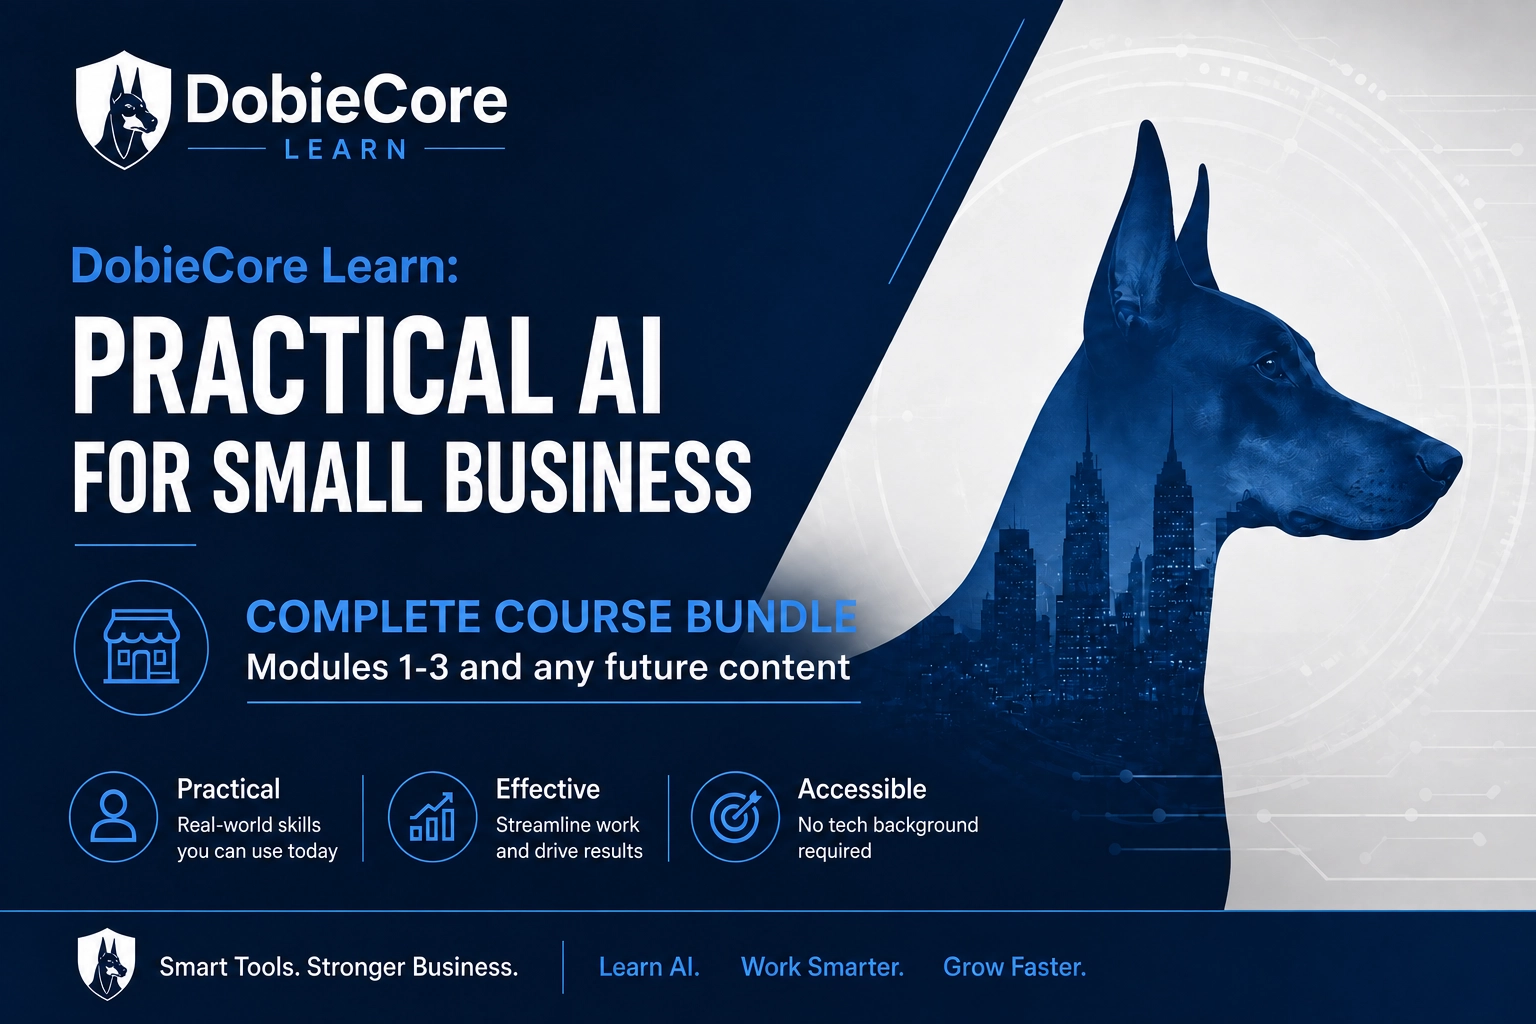
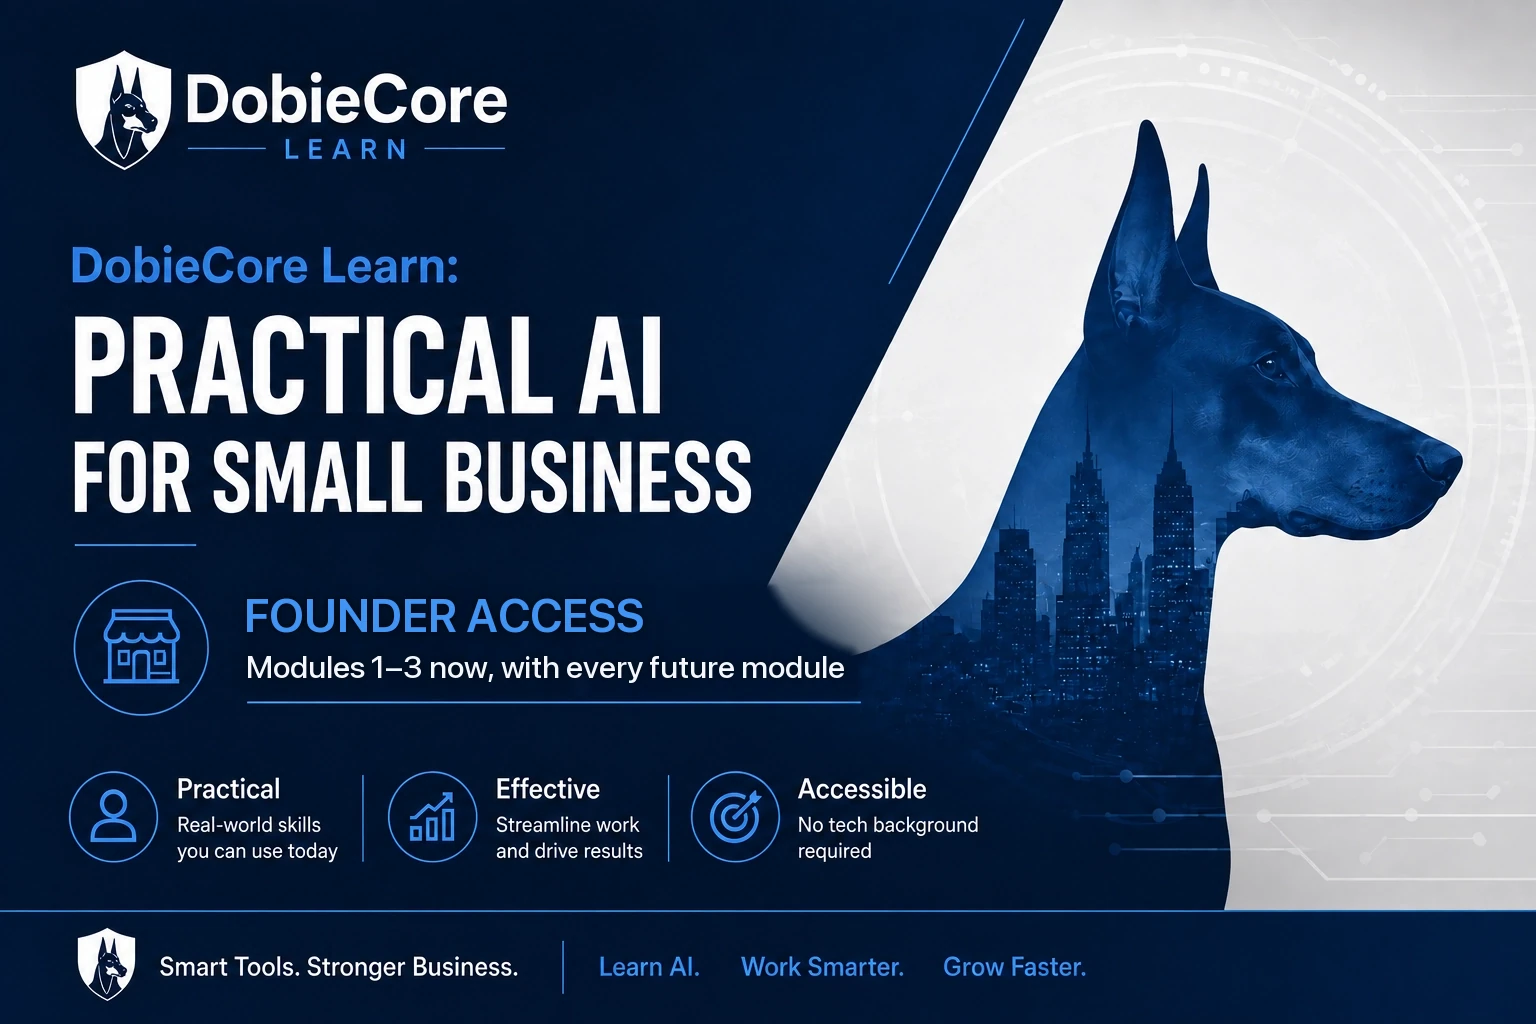
Lead the Learn page with Founder Access and say what exists today
A pre-launch review found the hero offer muddled: the art said "Complete
Course Bundle" while also promising "Modules 1-3 and any future content",
which reads as both finished and unfinished at once.

The hero art now reads "FOUNDER ACCESS / Modules 1-3 now, with every future
module". The old lettering was painted out and the white page-curl behind
"BUNDLE" redrawn, then the new type set in SF Pro to match. The full sentence
lives in the alt text. The re-encode is 135 KB (was 304 KB) and the URL
carries the build stamp, since /assets/* is edge-cached for four hours.

Both enroll buttons now say "Enroll for $99 Founder Access", the hero fine
print says "One payment. Lifetime access. Future modules included at no
extra cost.", and the price card names the offer Founder Access. A
highlighted line in the card states that 36 lessons across Modules 1-3 are
available now and further modules are added as they are completed. It
replaces the "All three modules live today" bullet it would have repeated.

The "better communicator" headline stays as the central positioning.

Changed region(s): [[0.1562, 0.5625, 0.5625, 0.6875]]

diff --git a/learn.html b/learn.html
@@ -18,16 +18,16 @@ keywords: "AI course for small business, practical AI, AI for small business own
 <section class="learn-hero">
   <div class="learn-hero-inner">
     <img class="learn-hero-image"
-         src="/assets/images/learn/dobiecore-learn-hero.webp"
-         alt="DobieCore Learn: Practical AI for Small Business — the complete course bundle. Practical, effective, accessible; no tech background required."
+         src="/assets/images/learn/dobiecore-learn-hero.webp?v={{ site.time | date: '%s' }}"
+         alt="DobieCore Learn: Practical AI for Small Business. Founder Access: Modules 1–3 now, with every future module included. Practical, effective, accessible; no tech background required."
          width="1536" height="1024" loading="eager" decoding="async" fetchpriority="high">
     <h1>You don't need to become a prompt engineer. You need to become a better communicator.</h1>
     <p class="learn-lede">DobieCore Learn is a course for small business owners who want AI to actually help &mdash; without collecting someone else's prompts forever. Three modules, 36 lessons, and a reusable business foundation you hand AI at the start of every conversation.</p>
     <p class="learn-cta-row">
-      <a href="{{ learn_url }}/enroll/" class="button">Enroll &middot; $99 founder price</a>
+      <a href="{{ learn_url }}/enroll/" class="button">Enroll for $99 Founder Access</a>
       <a href="{{ learn_url }}/module-1/1-1-welcome-to-dobiecore-learn-practical-ai-for-small-business/" class="button-secondary">Read the first two lessons free</a>
     </p>
-    <p class="learn-fine">Lifetime access, including every module added after you join.</p>
+    <p class="learn-fine">One payment. Lifetime access. Future modules included at no extra cost.</p>
   </div>
 </section>
 
@@ -87,17 +87,17 @@ keywords: "AI course for small business, practical AI, AI for small business own
 <section class="section section-alt">
   <div class="container" style="max-width: 720px; margin: 0 auto;">
     <div class="learn-price">
-      <p class="learn-price-eyebrow">Founder price</p>
+      <p class="learn-price-eyebrow">Founder Access</p>
       <p class="learn-price-amount">$99</p>
       <p class="learn-price-note">One payment. Lifetime access.</p>
+      <p class="learn-price-status"><strong>Available now:</strong> 36 lessons across Modules 1&ndash;3. Additional modules are in development and will be added as they are completed.</p>
       <ul class="learn-price-list">
-        <li>All three modules live today &mdash; 36 lessons</li>
         <li>Every Conversation Prompt, ready to paste into any AI assistant</li>
         <li>Progress tracking, module checks, and certificates</li>
         <li>Every module added after you join, at no extra cost</li>
       </ul>
       <p class="learn-cta-row">
-        <a href="{{ learn_url }}/enroll/" class="button">Enroll now</a>
+        <a href="{{ learn_url }}/enroll/" class="button">Enroll for $99 Founder Access</a>
         <a href="{{ learn_url }}/module-1/1-1-welcome-to-dobiecore-learn-practical-ai-for-small-business/" class="button-secondary">Start with a free lesson</a>
       </p>
       <p class="learn-fine">Secure checkout by Stripe. Already enrolled? <a href="{{ learn_url }}/login/">Sign in</a>.</p>
@@ -109,7 +109,7 @@ keywords: "AI course for small business, practical AI, AI for small business own
   <div class="container" style="max-width: 820px; margin: 0 auto;">
     <h2>What's coming</h2>
     <p>Modules 1&ndash;3 are the system. The modules being written next point that system at everyday work &mdash; customer communication, content that isn't filler, operations and SOPs, and using AI as a thinking partner without handing over your judgment. After that come two optional tracks: one for local service businesses, one for expertise-based work.</p>
-    <p>Founder enrollment includes all of it as it ships.</p>
+    <p>Founder Access includes all of it as it ships.</p>
   </div>
 </section>
 

diff --git a/css/learn.css b/css/learn.css
@@ -221,6 +221,23 @@
   margin: var(--space-xs) 0 var(--space-md);
 }
 
+/* What exists today versus what is still being written, stated plainly so
+   the founder offer never reads as more than it is. */
+.learn-price-status {
+  background-color: var(--color-cream);
+  border-radius: var(--radius-md);
+  padding: var(--space-sm) var(--space-md);
+  font-size: var(--font-size-sm);
+  line-height: var(--line-height-normal);
+  color: var(--color-text-secondary);
+  text-align: left;
+  margin: 0 0 var(--space-md);
+}
+
+.learn-price-status strong {
+  color: var(--color-text-primary);
+}
+
 .learn-price-list {
   list-style: none;
   padding: 0;
@@ -320,6 +337,7 @@
 
 .container .learn-price-eyebrow,
 .container .learn-price-note,
+.container .learn-price-status,
 .container .learn-fine,
 .container .learn-eyebrow {
   font-size: var(--font-size-sm);
